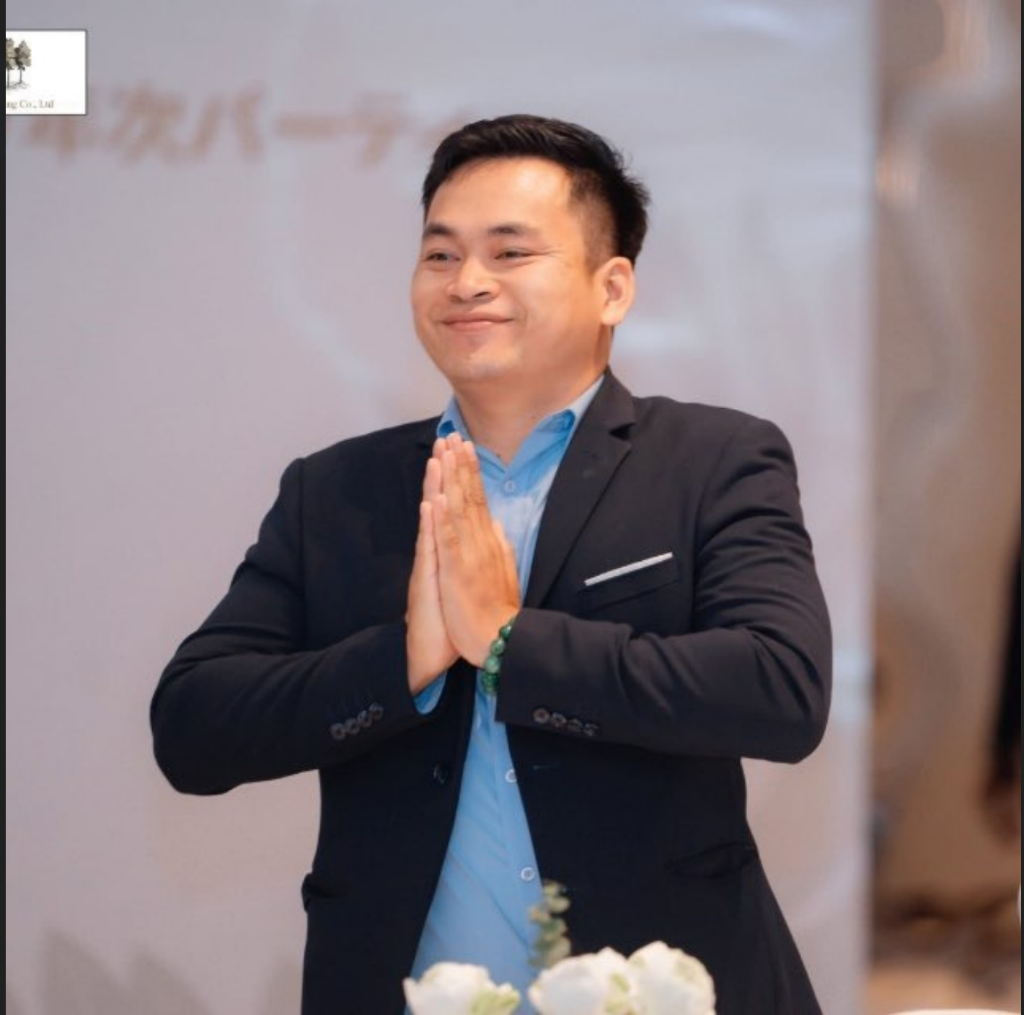
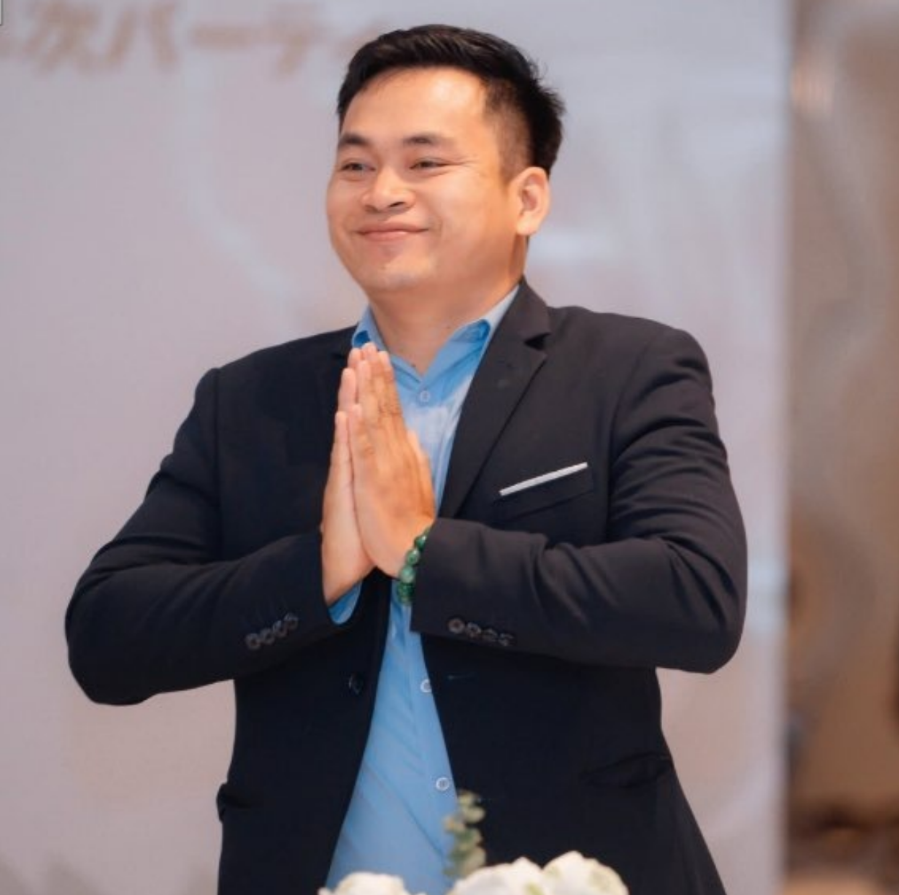
feat: ultra-premium CEO showcase with interactive topic selector, watermark crop, and dynamic Telegram deep-links

diff --git a/src/app/(site)/contact/contact-view.tsx b/src/app/(site)/contact/contact-view.tsx
@@ -2,7 +2,7 @@
 
 import React, { useState } from "react";
 import Image from "next/image";
-import { motion } from "framer-motion";
+import { motion, AnimatePresence } from "framer-motion";
 import {
   Send,
   Mail,
@@ -24,8 +24,10 @@ import {
   Users,
   Award,
   BadgeCheck,
+  ChevronRight,
   MessageCircle,
   HelpCircle,
+  TrendingUp,
 } from "lucide-react";
 import { useSite } from "@/lib/i18n";
 import { PageHero, Section, DirectAnswerBlock, Reveal } from "@/components/site/ui";
@@ -36,6 +38,7 @@ export function ContactView() {
   const isZh = lang === "zh";
 
   const [copiedHandle, setCopiedHandle] = useState<string | null>(null);
+  const [selectedTopic, setSelectedTopic] = useState<number>(0);
 
   const copyToClipboard = (text: string) => {
     if (typeof navigator !== "undefined" && navigator.clipboard) {
@@ -50,7 +53,7 @@ export function ContactView() {
       badge: isKm
         ? "ទំនាក់ទំនងផ្ទាល់ជាមួយថ្នាក់ដឹកនាំ"
         : isZh
-        ? "直接联系管理层与技术团队"
+        ? "直接联系创始人与技术团队"
         : "Direct Executive Access • No Forms Needed",
       title: isKm
         ? "ទំនាក់ទំនងផ្ទាល់ជាមួយថ្នាក់ដឹកនាំ AttendKH"
@@ -71,22 +74,44 @@ export function ContactView() {
 
   const executivePillars = [
     {
-      title: isKm ? "ការបង្ហាញផលិតផលជាន់ខ្ពស់" : isZh ? "高管专属 1对1 演示" : "1-on-1 Executive Demo",
+      id: "demo",
+      title: isKm ? "ការបង្ហាញផលិតផលជាន់ខ្ពស់" : isZh ? "高管专属 1对1 演示" : "1-on-1 Executive Walkthrough",
       desc: isKm ? "បង្ហាញគ្រប់មុខងារផ្ទាល់តាមតម្រូវការជាក់ស្តែង" : isZh ? "针对您团队规模定制全流程功能演练" : "Tailored walkthrough for your headcount & branches",
+      telegramText: "Hello Mr. Ong Phaly, I would like to schedule a 1-on-1 Executive Walkthrough for AttendKH.",
+      telegramTextKm: "ជម្រាបសួរលោក អ៊ុង ផល្លី ខ្ញុំចង់កក់ការបង្ហាញផលិតផលជាន់ខ្ពស់ (1-on-1 Walkthrough) នៃ AttendKH។",
+      telegramTextZh: "您好 Ong Phaly 先生，我想预约一次 AttendKH 的高管专属一对一产品演示。",
     },
     {
+      id: "pricing",
       title: isKm ? "កិច្ចសន្យាសហគ្រាស & SLA" : isZh ? "企业级定制报价与 SLA" : "Enterprise Pricing & SLAs",
       desc: isKm ? "កិច្ចព្រមព្រៀងពិសេសសម្រាប់អាជីវកម្មខ្នាតធំ" : isZh ? "大客户专属服务等级协议与多门店方案" : "Volume contracts and customized billing arrangements",
+      telegramText: "Hello Mr. Ong Phaly, I would like to inquire about Enterprise Pricing and SLAs for our organization.",
+      telegramTextKm: "ជម្រាបសួរលោក អ៊ុង ផល្លី ខ្ញុំចង់ពិភាក្សាអំពីកិច្ចសន្យាសហគ្រាស និងគម្រោងតម្លៃ SLA សម្រាប់ស្ថាប័នយើងខ្ញុំ។",
+      telegramTextZh: "您好 Ong Phaly 先生，我想咨询关于我们企业的定制化报价方案与 SLA 服务协议。",
     },
     {
-      title: isKm ? "ច្បាប់ការងារ & ប.ស.ស." : isZh ? "柬埔寨劳工法与社保合规" : "Labor Law & NSSF Alignment",
+      id: "compliance",
+      title: isKm ? "ច្បាប់ការងារ & ប.ស.ស." : isZh ? "柬埔寨劳工法与社保合规" : "Labor Law & NSSF Compliance",
       desc: isKm ? "ប្រឹក្សាយោបល់លើរូបមន្តប្រាក់ខែ និងម៉ោងបន្ថែម" : isZh ? "柬埔寨法定加班与社保代扣专属规则" : "Guidance on Cambodian overtime multipliers & formulas",
+      telegramText: "Hello Mr. Ong Phaly, I would like to discuss Cambodian Labor Law and NSSF payroll formulas in AttendKH.",
+      telegramTextKm: "ជម្រាបសួរលោក អ៊ុង ផល្លី ខ្ញុំចង់ពិភាក្សាអំពីការអនុលោមតាមច្បាប់ការងារ និងរូបមន្ត ប.ស.ស. ក្នុង AttendKH។",
+      telegramTextZh: "您好 Ong Phaly 先生，我想了解 AttendKH 如何支持柬埔寨劳工法与 NSSF 社保计算合规。",
     },
     {
+      id: "partnership",
       title: isKm ? "ភាពជាដៃគូយុទ្ធសាស្ត្រ" : isZh ? "战略合作与生态拓展" : "Strategic Partnerships",
       desc: isKm ? "សហការជាមួយធនាគារ ស្ថាប័ន និងដៃគូអាជីវកម្ម" : isZh ? "本地商会、银行渠道及行业集成合作" : "Banking, payroll channel & technology alliances",
+      telegramText: "Hello Mr. Ong Phaly, I would like to explore a strategic business partnership with AttendKH.",
+      telegramTextKm: "ជម្រាបសួរលោក អ៊ុង ផល្លី ខ្ញុំចង់ពិភាក្សាអំពីកិច្ចសហការ និងភាពជាដៃគូយុទ្ធសាស្ត្រជាមួយ AttendKH។",
+      telegramTextZh: "您好 Ong Phaly 先生，我想探讨与 AttendKH 的战略商业合作机会。",
     },
   ];
+
+  const currentTopic = executivePillars[selectedTopic] || executivePillars[0];
+  const encodedTelegramMsg = encodeURIComponent(
+    isKm ? currentTopic.telegramTextKm : isZh ? currentTopic.telegramTextZh : currentTopic.telegramText
+  );
+  const activeTelegramUrl = `https://t.me/MPG_by_ongphaly?text=${encodedTelegramMsg}`;
 
   const quickChannels = [
     {
@@ -141,66 +166,68 @@ export function ContactView() {
       ------------------------------------------------------------- */}
       <Section tone="white">
         <div className="mx-auto max-w-[1240px]">
-          {/* Executive Spotlight Showcase Card */}
           <Reveal delay={0.05}>
-            <div className="relative rounded-[32px] border border-blue-200/90 bg-gradient-to-br from-white via-white to-blue-50/40 p-8 sm:p-12 lg:p-14 shadow-[0_25px_70px_rgba(0,82,255,0.08),0_1px_3px_rgba(0,0,0,0.02)] ring-1 ring-blue-500/10 overflow-hidden">
+            <div className="relative rounded-[36px] border border-blue-200/90 bg-gradient-to-br from-white via-white to-blue-50/50 p-8 sm:p-12 lg:p-14 shadow-[0_30px_90px_rgba(0,82,255,0.08),0_1px_3px_rgba(0,0,0,0.02)] ring-1 ring-blue-500/10 overflow-hidden">
               {/* Background ambient lighting effects */}
-              <div className="absolute -top-24 -right-24 h-96 w-96 rounded-full bg-[radial-gradient(circle,rgba(0,82,255,0.12),transparent_70%)] blur-2xl pointer-events-none" />
-              <div className="absolute -bottom-24 -left-24 h-96 w-96 rounded-full bg-[radial-gradient(circle,rgba(56,189,248,0.08),transparent_70%)] blur-2xl pointer-events-none" />
+              <div className="absolute -top-32 -right-32 h-[420px] w-[420px] rounded-full bg-[radial-gradient(circle,rgba(0,82,255,0.12),transparent_70%)] blur-3xl pointer-events-none" />
+              <div className="absolute -bottom-32 -left-32 h-[420px] w-[420px] rounded-full bg-[radial-gradient(circle,rgba(56,189,248,0.10),transparent_70%)] blur-3xl pointer-events-none" />
 
               <div className="relative grid gap-10 lg:grid-cols-12 lg:items-center">
-                {/* Left: Large Portrait Image & Executive Frame (5 cols) */}
+                {/* ----------------- LEFT: Large Framed Portrait & Live Badge (5 cols) ----------------- */}
                 <div className="lg:col-span-5 flex flex-col items-center sm:items-start">
                   <div className="relative group">
                     {/* Glowing outer backdrop */}
-                    <div className="absolute -inset-1.5 rounded-[28px] bg-gradient-to-r from-blue-600 via-indigo-600 to-sky-500 opacity-30 blur-lg group-hover:opacity-50 transition-opacity duration-300" />
+                    <div className="absolute -inset-2 rounded-[32px] bg-gradient-to-r from-blue-600 via-indigo-600 to-sky-500 opacity-25 blur-xl group-hover:opacity-45 transition-opacity duration-500" />
                     
                     {/* Main framed photo container */}
-                    <div className="relative h-72 w-72 sm:h-80 sm:w-80 rounded-[26px] overflow-hidden border-3 border-white shadow-2xl bg-slate-900">
+                    <div className="relative h-72 w-72 sm:h-84 sm:w-84 rounded-[28px] overflow-hidden border-4 border-white shadow-2xl bg-slate-900">
                       <Image
                         src="/avatars/ong-phaly.png"
                         alt="Mr. Ong Phaly - CEO & Founder of AttendKH"
                         fill
-                        sizes="(max-width: 640px) 288px, 320px"
-                        className="object-cover object-top scale-105 group-hover:scale-110 transition-transform duration-500"
+                        sizes="(max-width: 640px) 288px, 336px"
+                        className="object-cover object-top scale-100 group-hover:scale-105 transition-transform duration-500"
                         priority
                       />
                       
-                      {/* Dark gradient overlay at the bottom of the photo */}
-                      <div className="absolute inset-x-0 bottom-0 h-28 bg-gradient-to-t from-black/80 via-black/40 to-transparent" />
+                      {/* Smooth dark gradient vignette at the base of the image */}
+                      <div className="absolute inset-x-0 bottom-0 h-32 bg-gradient-to-t from-slate-950/90 via-slate-950/40 to-transparent" />
                       
-                      {/* Floating name badge over image */}
+                      {/* Overlay name and title on the photo */}
                       <div className="absolute bottom-4 left-4 right-4 text-white">
                         <div className="flex items-center gap-1.5 text-xs font-bold text-blue-300 tracking-wider uppercase">
-                          <BadgeCheck size={14} className="text-blue-400 fill-blue-400 text-white" />
+                          <BadgeCheck size={15} className="text-blue-400 fill-blue-400 text-white" />
                           <span>{isKm ? "ស្ថាបនិក & CEO" : isZh ? "创始人兼 CEO" : "CEO & Founder"}</span>
                         </div>
-                        <p className="font-display text-lg sm:text-xl font-bold text-white drop-shadow-md">
+                        <p className="font-display text-xl sm:text-2xl font-extrabold text-white drop-shadow-md">
                           {isKm ? "លោក អ៊ុង ផល្លី" : isZh ? "Ong Phaly 先生" : "Mr. Ong Phaly"}
                         </p>
                       </div>
                     </div>
 
-                    {/* Executive Gold/Blue Seal Badge */}
-                    <div className="absolute -top-3 -right-3 flex items-center gap-1.5 rounded-full bg-gradient-to-r from-blue-600 to-indigo-600 px-3.5 py-1.5 text-[11px] font-bold text-white shadow-lg border-2 border-white">
+                    {/* Executive Direct VIP Seal */}
+                    <div className="absolute -top-3 -right-3 flex items-center gap-1.5 rounded-full bg-gradient-to-r from-blue-600 to-indigo-600 px-4 py-1.5 text-[11px] font-bold text-white shadow-lg border-2 border-white">
                       <Award size={13} className="text-amber-300" />
-                      <span>Executive Direct</span>
+                      <span>Executive Direct Line</span>
                     </div>
                   </div>
 
-                  {/* Response time commitment */}
-                  <div className="mt-6 inline-flex items-center gap-2 rounded-xl bg-white/90 border border-slate-200/90 px-4 py-2 text-xs font-semibold text-slate-700 shadow-xs">
-                    <span className="h-2.5 w-2.5 rounded-full bg-emerald-500 animate-pulse" />
-                    <span>{isKm ? "ឆ្លើយតបលឿនក្នុងរយៈពេល ៥–១៥ នាទី" : isZh ? "Telegram 通常 5–15 分钟内极速响应" : "Typically replies within 5–15 mins on Telegram"}</span>
+                  {/* Online presence badge */}
+                  <div className="mt-6 inline-flex items-center gap-2.5 rounded-2xl bg-white/95 border border-slate-200/90 px-4 py-2 text-xs font-semibold text-slate-800 shadow-xs">
+                    <span className="relative flex h-2.5 w-2.5">
+                      <span className="animate-ping absolute inline-flex h-full w-full rounded-full bg-emerald-400 opacity-75" />
+                      <span className="relative inline-flex rounded-full h-2.5 w-2.5 bg-emerald-500" />
+                    </span>
+                    <span>{isKm ? "បើកទទួលសារផ្ទាល់ • ឆ្លើយតបក្នុងរយៈពេល ៥–១៥ នាទី" : isZh ? "Telegram 在线中 • 通常 5–15 分钟内极速响应" : "Online on Telegram • Fast 5–15 min response"}</span>
                   </div>
                 </div>
 
-                {/* Right: Executive Details, Topics & Instant Action (7 cols) */}
+                {/* ----------------- RIGHT: Executive Bio, Interactive Topics & CTA (7 cols) ----------------- */}
                 <div className="lg:col-span-7 space-y-6">
                   <div>
-                    <div className="inline-flex items-center gap-2 rounded-full bg-brand-soft border border-blue-200/70 px-4 py-1 text-xs font-bold text-brand uppercase tracking-wider mb-3">
+                    <div className="inline-flex items-center gap-2 rounded-full bg-brand-soft border border-blue-200/70 px-3.5 py-1 text-xs font-bold text-brand uppercase tracking-wider mb-3">
                       <Briefcase size={13} />
-                      <span>{isKm ? "ថ្នាក់ដឹកនាំកំពូល • ទំនាក់ទំនងផ្ទាល់" : isZh ? "最高管理层 • 一对一直通" : "Executive Office • Direct Line"}</span>
+                      <span>{isKm ? "ការិយាល័យអគ្គនាយកប្រតិបត្តិ" : isZh ? "最高管理层办公室 • 一对一直通" : "Office of the Chief Executive"}</span>
                     </div>
                     
                     <h2 className="font-display text-3xl sm:text-4xl lg:text-[42px] font-extrabold text-slate-900 tracking-tight leading-tight">
@@ -208,10 +235,10 @@ export function ContactView() {
                     </h2>
                     
                     <p className="font-display text-base sm:text-lg font-semibold text-brand mt-1">
-                      {isKm ? "អគ្គនាយកប្រតិបត្តិ (Chief Executive Officer)" : isZh ? "AttendKH 创始人兼首席执行官" : "Chief Executive Officer & Founder, AttendKH"}
+                      {isKm ? "អគ្គនាយកប្រតិបត្តិ (Chief Executive Officer) • AttendKH" : isZh ? "AttendKH 创始人兼首席执行官" : "Chief Executive Officer & Founder, AttendKH"}
                     </p>
 
-                    <blockquote className="mt-4 rounded-2xl border-l-4 border-brand bg-slate-50/80 p-4 text-xs sm:text-sm italic leading-relaxed text-slate-700">
+                    <blockquote className="mt-4 rounded-2xl border-l-4 border-brand bg-slate-50/90 p-4 text-xs sm:text-sm italic leading-relaxed text-slate-700">
                       {isKm
                         ? "«យើងប្តេជ្ញាផ្តល់នូវដំណោះស្រាយបច្ចេកវិទ្យាវត្តមាន និងប្រាក់ខែកម្ពុជាដែលងាយស្រួល ទំនើប និងមានទំនុកចិត្តបំផុតជូនម្ចាស់អាជីវកម្មគ្រប់រូប។»"
                         : isZh
@@ -220,39 +247,60 @@ export function ContactView() {
                     </blockquote>
                   </div>
 
-                  {/* 4 Executive Discussion Pillars */}
+                  {/* Interactive Consultation Topic Selector */}
                   <div>
-                    <span className="font-mono text-[11px] font-bold uppercase tracking-wider text-slate-500 block mb-3">
-                      {isKm ? "ប្រធានបទដែលអ្នកអាចពិភាក្សាផ្ទាល់៖" : isZh ? "主要负责与直接沟通事项：" : "Executive Consultation Topics:"}
-                    </span>
-                    <div className="grid sm:grid-cols-2 gap-3">
-                      {executivePillars.map((p) => (
-                        <div
-                          key={p.title}
-                          className="rounded-xl border border-slate-200/80 bg-white p-3.5 shadow-2xs hover:border-brand/40 transition-colors"
-                        >
-                          <div className="flex items-center gap-2 text-xs font-bold text-slate-900">
-                            <CheckCircle2 size={14} className="text-brand shrink-0" />
-                            <span>{p.title}</span>
-                          </div>
-                          <p className="mt-1 text-[11.5px] leading-snug text-slate-500 pl-5.5">
-                            {p.desc}
-                          </p>
-                        </div>
-                      ))}
+                    <div className="flex items-center justify-between mb-2.5">
+                      <span className="font-mono text-[11px] font-bold uppercase tracking-wider text-slate-500">
+                        {isKm ? "ជ្រើសរើសប្រធានបទដើម្បីឆាតភ្លាមៗ៖" : isZh ? "点击选择咨询主题（自动生成 Telegram 问候）：" : "Select a topic to start instant chat:"}
+                      </span>
+                      <span className="text-[11px] font-medium text-brand">
+                        {isKm ? "ចុចដើម្បីជ្រើសរើស" : isZh ? "点击卡片切换" : "Click card to select"}
+                      </span>
+                    </div>
+
+                    <div className="grid sm:grid-cols-2 gap-2.5">
+                      {executivePillars.map((p, idx) => {
+                        const isSelected = selectedTopic === idx;
+                        return (
+                          <button
+                            key={p.id}
+                            type="button"
+                            onClick={() => setSelectedTopic(idx)}
+                            className={`text-left rounded-2xl border p-3.5 transition-all duration-200 cursor-pointer relative overflow-hidden ${
+                              isSelected
+                                ? "border-brand bg-blue-50/70 shadow-sm ring-2 ring-brand/20 scale-[1.01]"
+                                : "border-slate-200/80 bg-white hover:border-slate-300 hover:bg-slate-50/50"
+                            }`}
+                          >
+                            <div className="flex items-center justify-between gap-2">
+                              <span className={`font-display text-xs font-bold leading-snug ${isSelected ? "text-brand" : "text-slate-900"}`}>
+                                {p.title}
+                              </span>
+                              {isSelected ? (
+                                <CheckCircle2 size={14} className="text-brand shrink-0" />
+                              ) : (
+                                <span className="h-3.5 w-3.5 rounded-full border border-slate-300 shrink-0" />
+                              )}
+                            </div>
+                            <p className="mt-1 text-[11px] leading-snug text-slate-500 line-clamp-1">
+                              {p.desc}
+                            </p>
+                          </button>
+                        );
+                      })}
                     </div>
                   </div>
 
-                  {/* Primary High-Impact CTA Row */}
-                  <div className="pt-4 flex flex-col sm:flex-row items-stretch sm:items-center gap-3.5">
+                  {/* Primary High-Impact CTA Row with dynamic topic message */}
+                  <div className="pt-2 flex flex-col sm:flex-row items-stretch sm:items-center gap-3.5">
                     <a
-                      href="https://t.me/MPG_by_ongphaly"
+                      href={activeTelegramUrl}
                       target="_blank"
                       rel="noopener noreferrer"
-                      className="flex-1 inline-flex items-center justify-center gap-3 rounded-2xl bg-[#229ED9] hover:bg-[#1688bd] px-8 py-4 text-sm sm:text-base font-bold text-white shadow-[0_8px_25px_rgba(34,158,217,0.38)] hover:shadow-[0_12px_32px_rgba(34,158,217,0.48)] hover:-translate-y-0.5 active:translate-y-0 transition-all duration-200 cursor-pointer group"
+                      className="flex-1 inline-flex items-center justify-center gap-3 rounded-2xl bg-gradient-to-r from-[#229ED9] to-[#0088cc] hover:from-[#1a8bc2] hover:to-[#0077b3] px-8 py-4 text-sm sm:text-base font-bold text-white shadow-[0_8px_25px_rgba(34,158,217,0.38)] hover:shadow-[0_12px_32px_rgba(34,158,217,0.48)] hover:-translate-y-0.5 active:translate-y-0 transition-all duration-200 cursor-pointer group"
                     >
                       <Send size={19} className="transition-transform duration-200 group-hover:-translate-y-0.5 group-hover:translate-x-0.5" />
-                      <span>{isKm ? "ឆាតផ្ទាល់ជាមួយ CEO តាម Telegram" : isZh ? "在 Telegram 上联系 CEO (@MPG_by_ongphaly)" : "Chat with CEO on Telegram"}</span>
+                      <span>{isKm ? "ឆាតផ្ទាល់ជាមួយ CEO តាម Telegram" : isZh ? "联系 CEO 咨询 (@MPG_by_ongphaly)" : "Chat with CEO on Telegram"}</span>
                       <ExternalLink size={15} className="opacity-80" />
                     </a>
 
